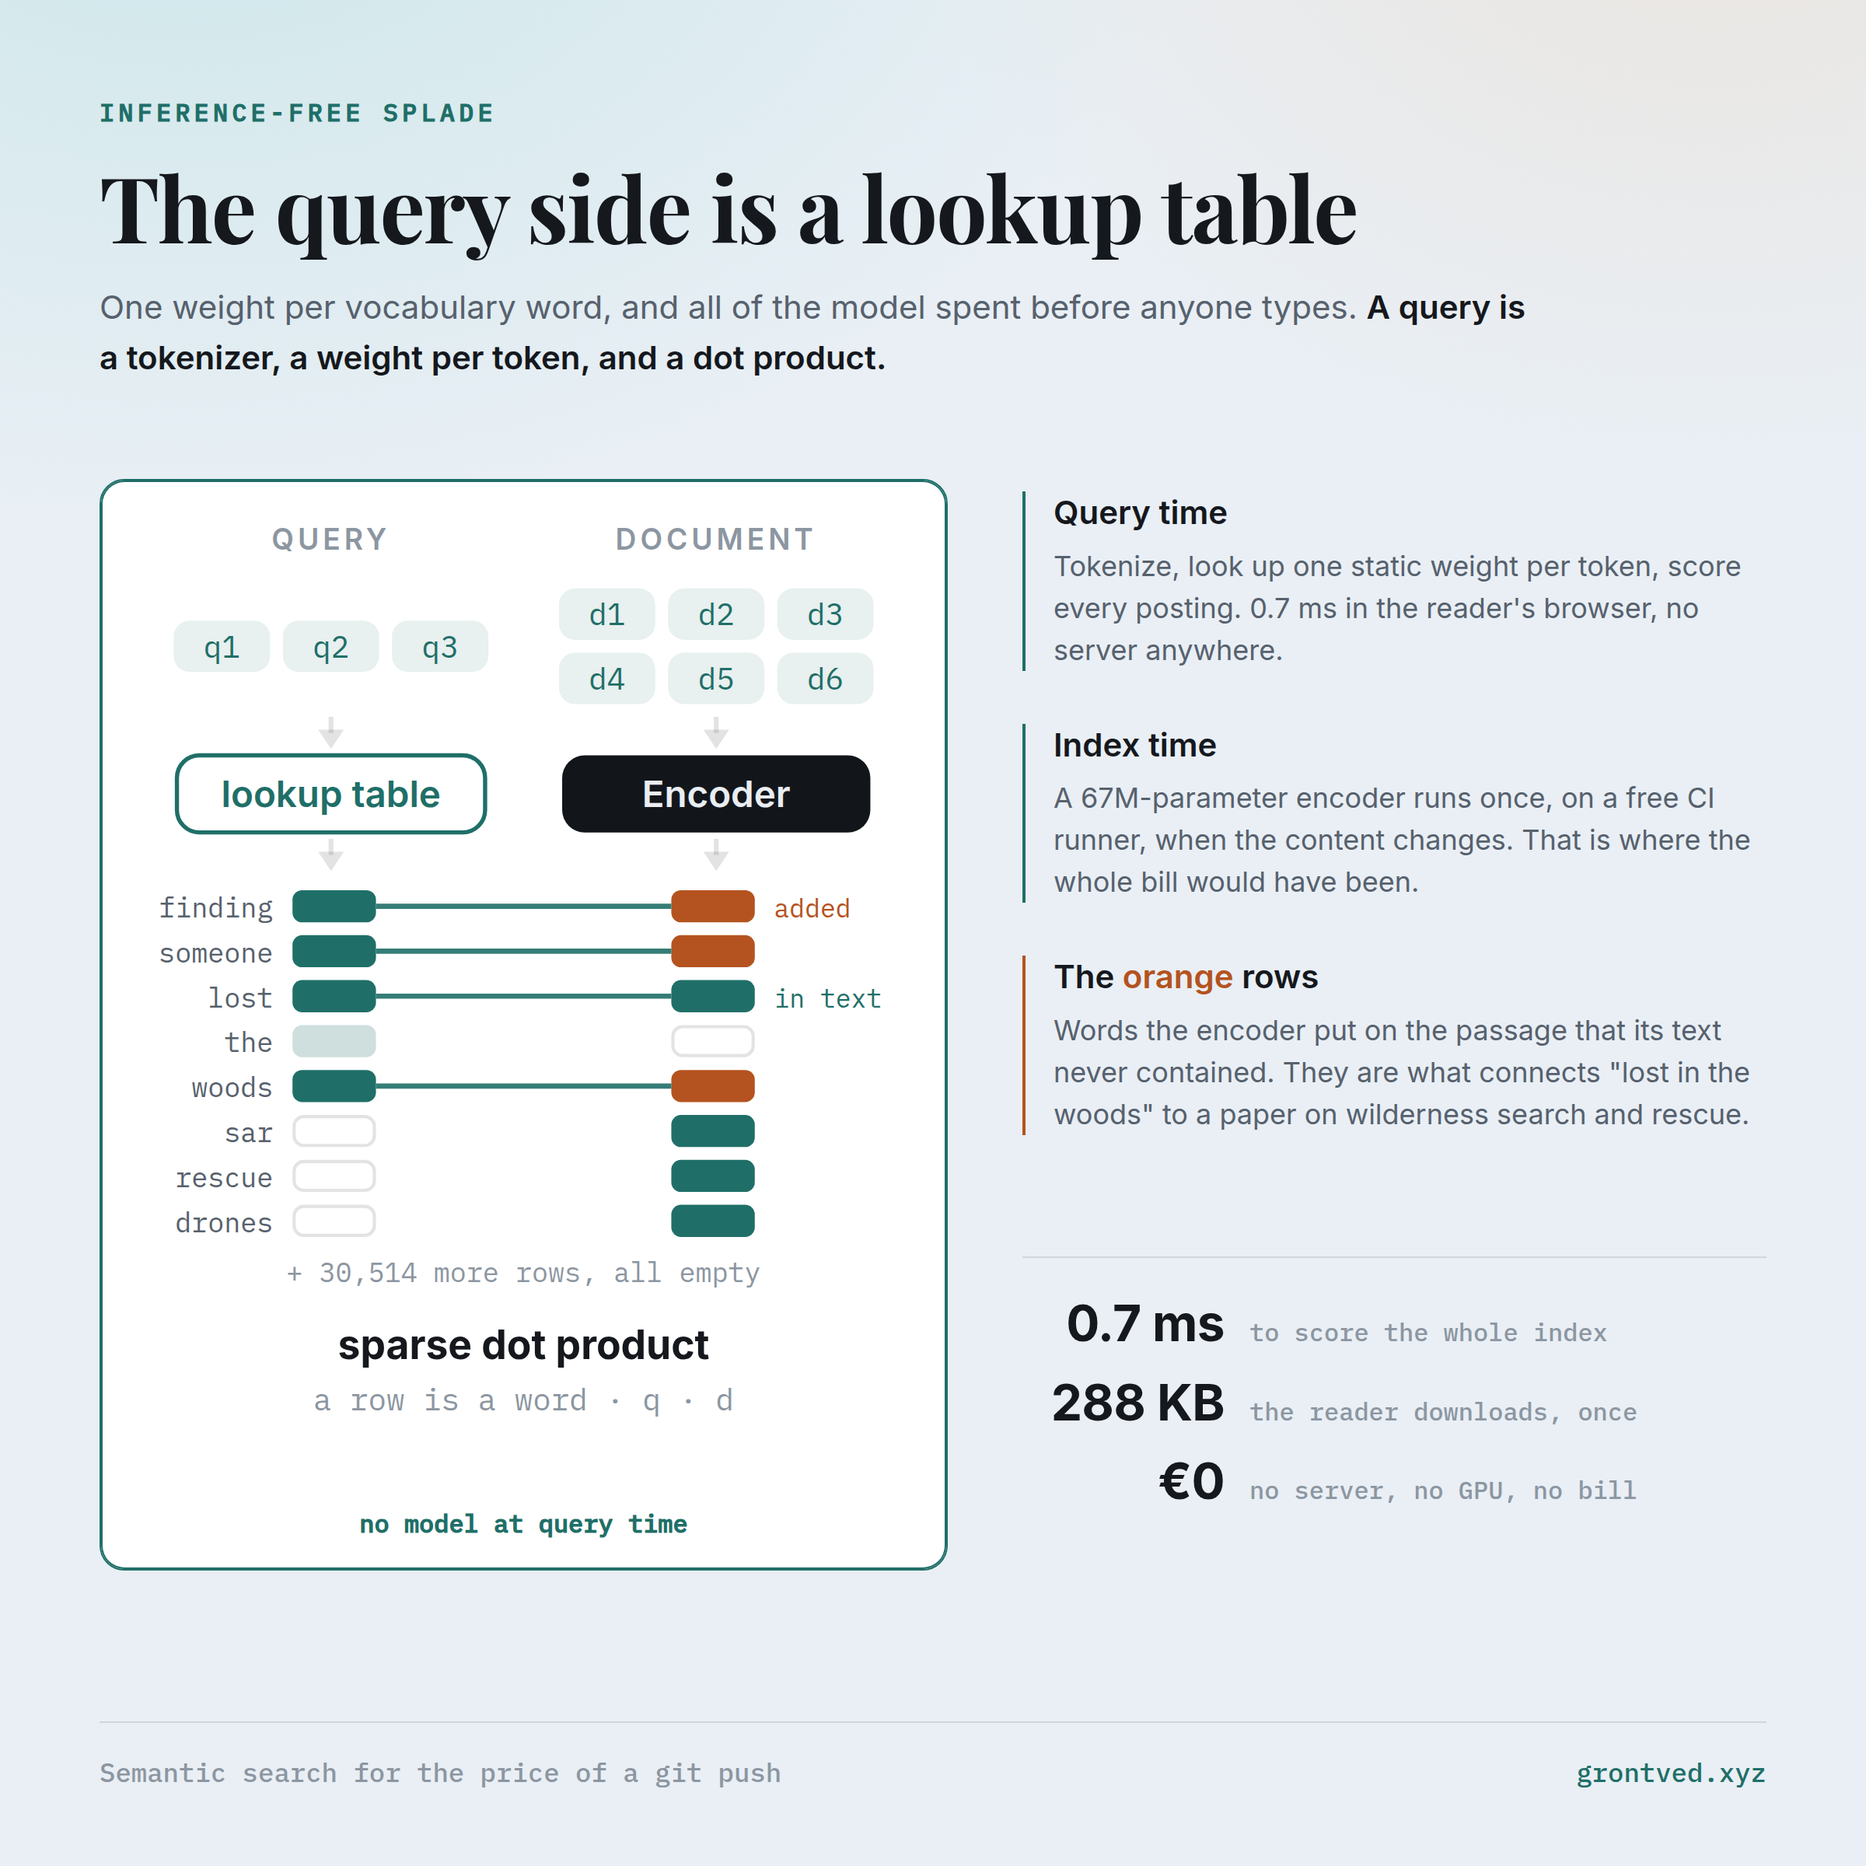
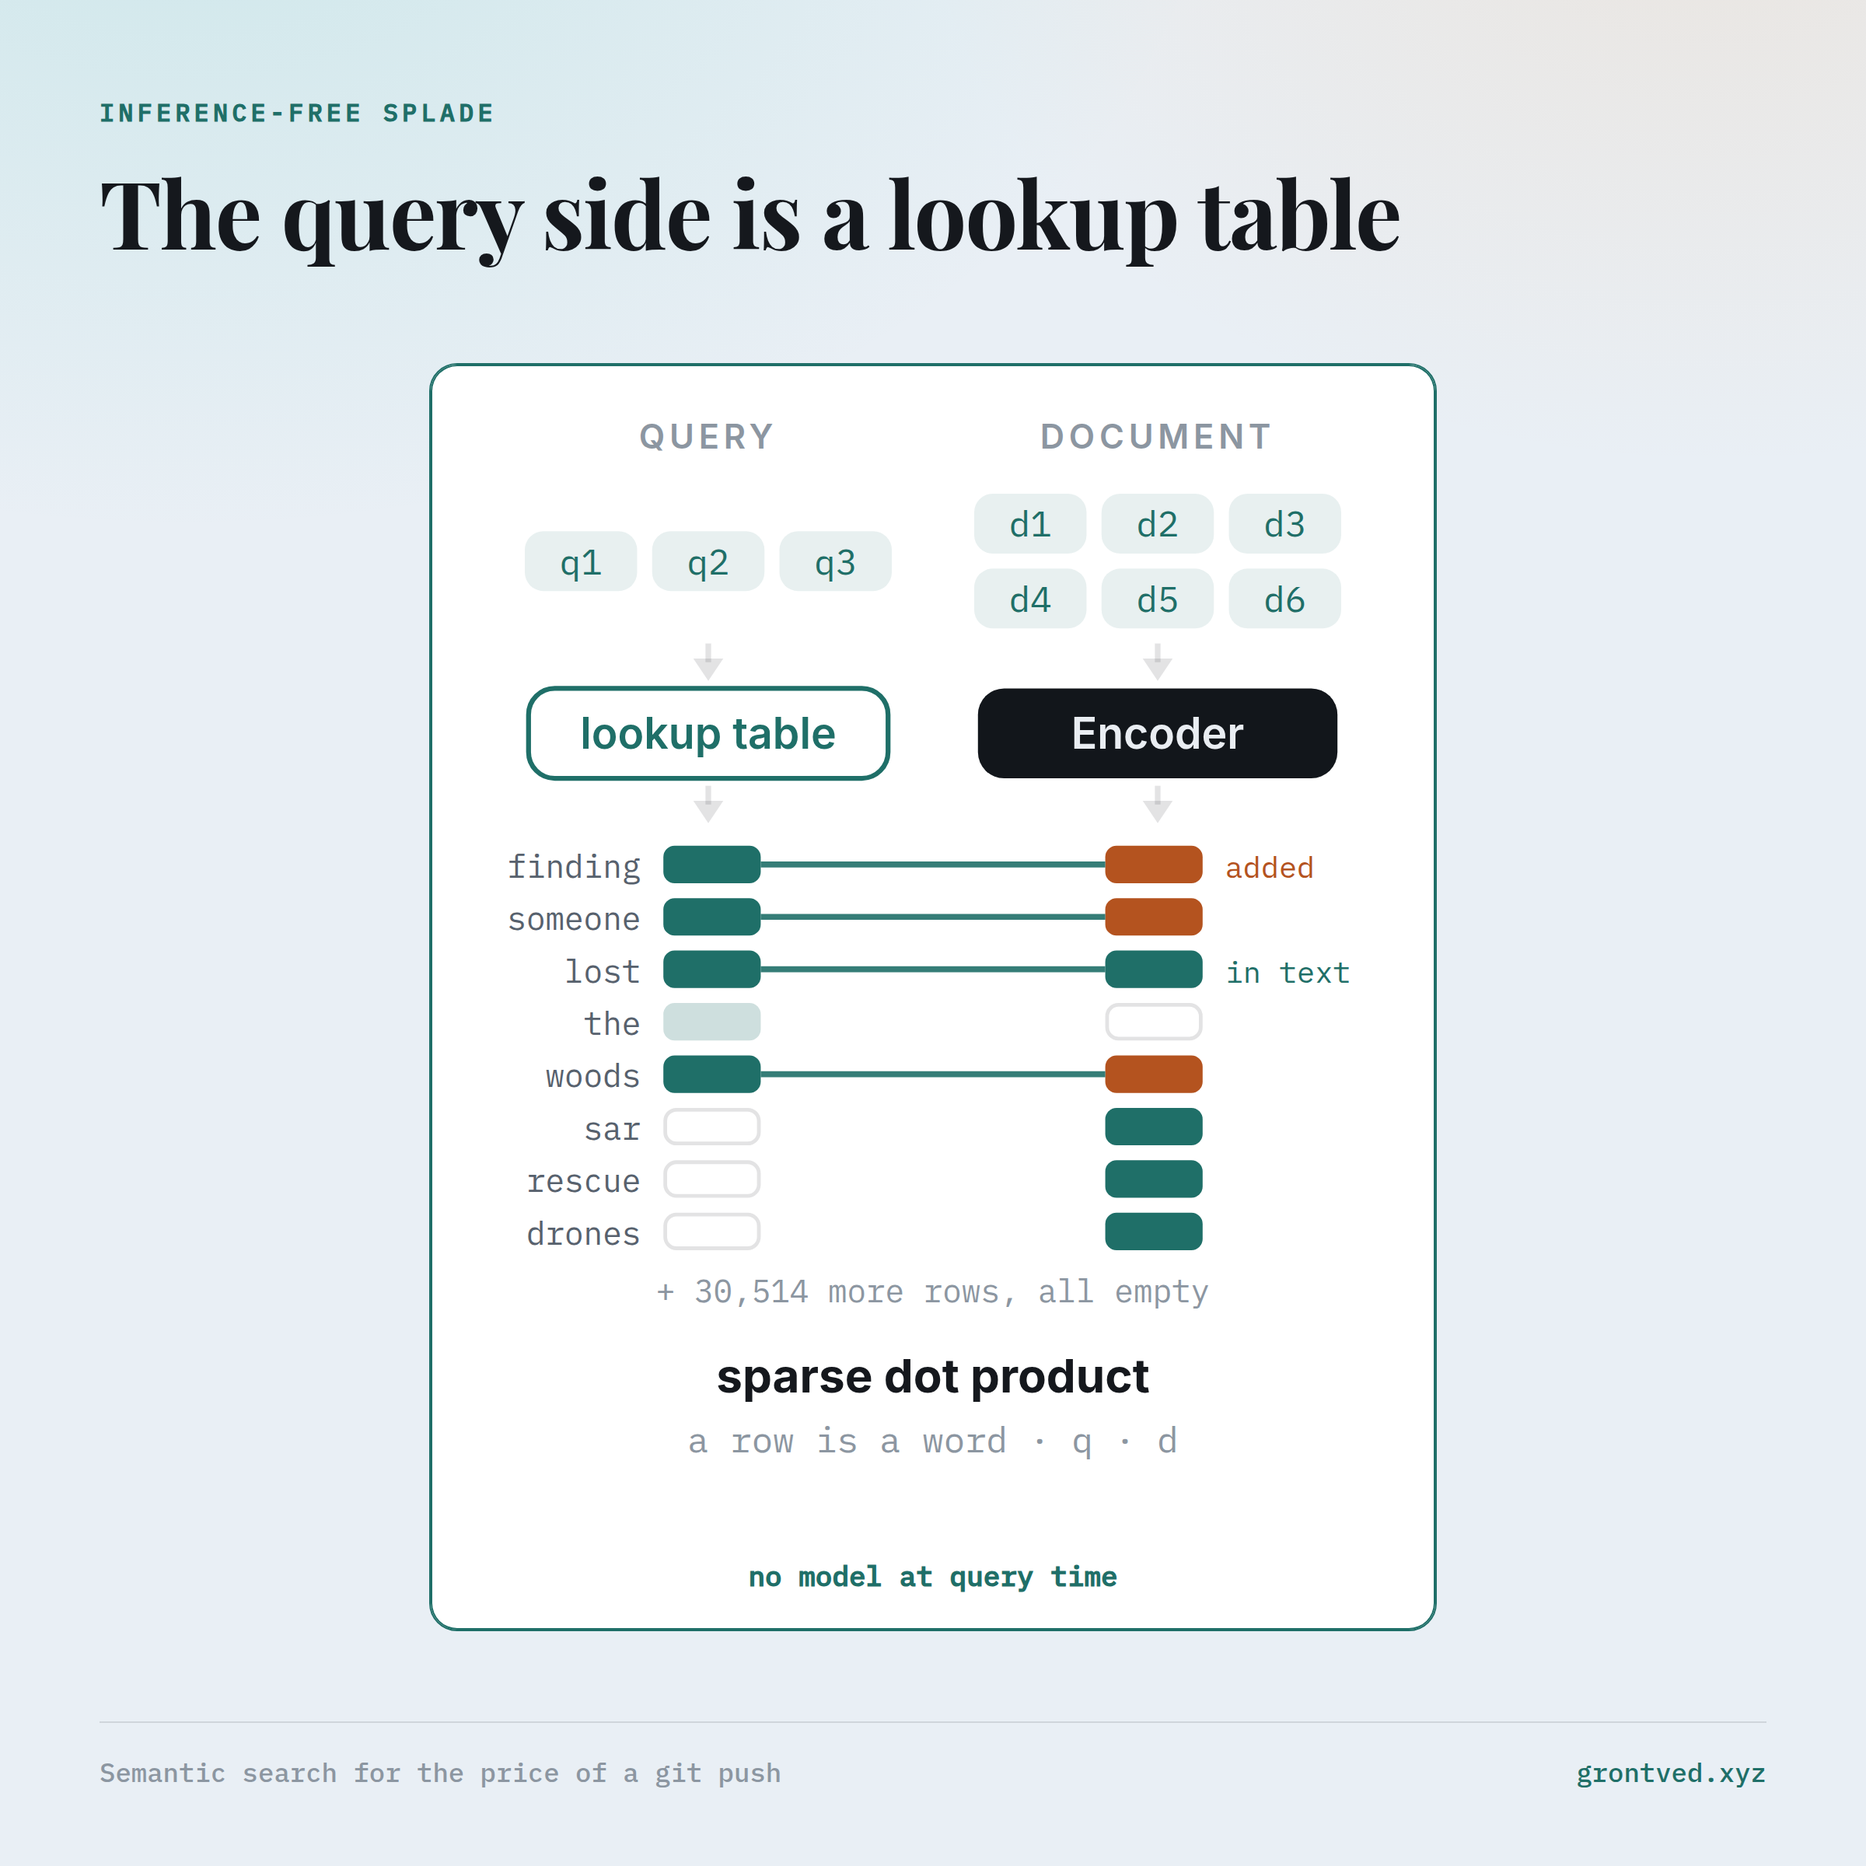
Strip the card back to the drawing
The annotations and the row of costs explained the mechanism well enough that
there was no reason left to open the post. What is left is an eyebrow, a
headline, the diagram and the site name, and the card's only job is to make
someone want to read the rest.

diff --git a/.claude/skills/linkedin-post/cards/2026-09-11-inference-free-splade.html b/.claude/skills/linkedin-post/cards/2026-09-11-inference-free-splade.html
@@ -14,59 +14,28 @@
           var(--canvas)}
   .shot .eyebrow{font:600 16px/1 var(--mono);letter-spacing:.16em;text-transform:uppercase;
                  color:var(--accent);margin:0;flex:none}
-  .shot h1{font:700 58px/1.12 var(--serif);color:var(--ink);margin:20px 0 0;letter-spacing:-.015em;
+  .shot h1{font:700 60px/1.12 var(--serif);color:var(--ink);margin:22px 0 0;letter-spacing:-.015em;
            max-width:27ch;flex:none}
-  .shot .sub{font:400 21px/1.55 var(--sans);color:var(--muted);margin:16px 0 0;max-width:70ch;flex:none}
-  .shot .sub b{color:var(--ink);font-weight:600}
-
-  .shot .body{display:grid;grid-template-columns:1.14fr 1fr;gap:48px;align-items:start;
-              margin-top:62px;flex:none}
-  .shot .panel{background:var(--card);border:1px solid var(--accent);border-radius:16px;
-               box-shadow:inset 0 0 0 1px var(--accent);padding:24px 24px 18px}
+  .shot .figwrap{flex:1;display:flex;align-items:center;justify-content:center;min-height:0;
+                 margin:46px 0 0}
+  .shot .panel{background:var(--card);border:1px solid var(--accent);border-radius:18px;
+               box-shadow:inset 0 0 0 1px var(--accent);padding:30px 34px 22px;
+               width:648px}
   .shot .panel svg{width:100%;height:auto;display:block}
-  .shot .panel .badge{margin:16px 0 0;font:600 16px/1.4 var(--mono);color:var(--accent);text-align:center}
-
-  .shot .notes{display:flex;flex-direction:column;gap:34px;padding-top:8px}
-  .shot .note{border-left:2px solid var(--accent);padding-left:18px}
-  .shot .note b{display:block;font:600 21px/1.3 var(--sans);color:var(--ink)}
-  .shot .note span{display:block;font:400 18px/1.5 var(--sans);color:var(--muted);margin-top:7px}
-  .shot .note.warm{border-left-color:var(--accent-2)}
-  .shot .note em{font-style:normal;color:var(--accent-2);font-weight:600}
-
-  .shot .nums{display:flex;flex-direction:column;gap:18px;margin-top:44px;
-              border-top:1px solid var(--hair);padding-top:26px}
-  .shot .num{display:flex;align-items:baseline;gap:16px}
-  .shot .num b{font:700 32px/1 var(--sans);color:var(--ink);letter-spacing:-.01em;
-               min-width:130px;text-align:right}
-  .shot .num span{font:500 16px/1.4 var(--mono);color:var(--faint)}
+  .shot .panel .badge{margin:14px 0 0;font:600 18px/1.4 var(--mono);color:var(--accent);
+                      text-align:center}
   .shot .foot{display:flex;justify-content:space-between;align-items:baseline;gap:24px;flex:none;
-        border-top:1px solid var(--hair);padding-top:20px;margin-top:auto;
+        border-top:1px solid var(--hair);padding-top:20px;margin-top:40px;
         font:500 17px/1.4 var(--mono);color:var(--faint)}
   .shot .foot .url{color:var(--accent)}
 </style>
 <div class="shot">
 <p class="eyebrow">Inference-free SPLADE</p>
 <h1>The query side is a lookup table</h1>
-<p class="sub">One weight per vocabulary word, and all of the model spent before anyone types.
-<b>A query is a tokenizer, a weight per token, and a dot product.</b></p>
-<div class="body">
+<div class="figwrap">
   <div class="panel">
     <svg viewBox="0 0 240 300" role="img" aria-label="Inference-free SPLADE. The document goes through an encoder and comes out as weights on vocabulary words, some of which are not in the text. The query side is a tokenizer and a lookup table, no model. The score is a dot product over the words both sides lit up."><g font-family="var(--sans)"><text x="60" y="10" text-anchor="middle" font-size="9" font-weight="600" letter-spacing="1.2" fill="var(--faint)">QUERY</text><text x="180" y="10" text-anchor="middle" font-size="9" font-weight="600" letter-spacing="1.2" fill="var(--faint)">DOCUMENT</text><rect x="11" y="32" width="30" height="16" rx="5" fill="var(--accent-faint)"/><text x="26.0" y="43.5" text-anchor="middle" font-family="IBM Plex Mono,monospace" font-size="9.5" fill="var(--accent)">q1</text><rect x="45" y="32" width="30" height="16" rx="5" fill="var(--accent-faint)"/><text x="60.0" y="43.5" text-anchor="middle" font-family="IBM Plex Mono,monospace" font-size="9.5" fill="var(--accent)">q2</text><rect x="79" y="32" width="30" height="16" rx="5" fill="var(--accent-faint)"/><text x="94.0" y="43.5" text-anchor="middle" font-family="IBM Plex Mono,monospace" font-size="9.5" fill="var(--accent)">q3</text><rect x="131" y="22" width="30" height="16" rx="5" fill="var(--accent-faint)"/><text x="146.0" y="33.5" text-anchor="middle" font-family="IBM Plex Mono,monospace" font-size="9.5" fill="var(--accent)">d1</text><rect x="165" y="22" width="30" height="16" rx="5" fill="var(--accent-faint)"/><text x="180.0" y="33.5" text-anchor="middle" font-family="IBM Plex Mono,monospace" font-size="9.5" fill="var(--accent)">d2</text><rect x="199" y="22" width="30" height="16" rx="5" fill="var(--accent-faint)"/><text x="214.0" y="33.5" text-anchor="middle" font-family="IBM Plex Mono,monospace" font-size="9.5" fill="var(--accent)">d3</text><rect x="131" y="42" width="30" height="16" rx="5" fill="var(--accent-faint)"/><text x="146.0" y="53.5" text-anchor="middle" font-family="IBM Plex Mono,monospace" font-size="9.5" fill="var(--accent)">d4</text><rect x="165" y="42" width="30" height="16" rx="5" fill="var(--accent-faint)"/><text x="180.0" y="53.5" text-anchor="middle" font-family="IBM Plex Mono,monospace" font-size="9.5" fill="var(--accent)">d5</text><rect x="199" y="42" width="30" height="16" rx="5" fill="var(--accent-faint)"/><text x="214.0" y="53.5" text-anchor="middle" font-family="IBM Plex Mono,monospace" font-size="9.5" fill="var(--accent)">d6</text><path d="M60 62V67" stroke="var(--hair)" stroke-width="1.5"/><path d="M60 72l-4 -6h8z" fill="var(--hair)"/><path d="M180 62V67" stroke="var(--hair)" stroke-width="1.5"/><path d="M180 72l-4 -6h8z" fill="var(--hair)"/><rect x="12" y="74" width="96" height="24" rx="7" fill="var(--card)" stroke="var(--accent)" stroke-width="1.3"/><text x="60.0" y="90.0" text-anchor="middle" font-size="11.5" font-weight="600" fill="var(--accent)">lookup table</text><rect x="132" y="74" width="96" height="24" rx="7" fill="var(--dark)"/><text x="180.0" y="90.0" text-anchor="middle" font-size="11.5" font-weight="600" fill="#e9edf2">Encoder</text><path d="M60 100V105" stroke="var(--hair)" stroke-width="1.5"/><path d="M60 110l-4 -6h8z" fill="var(--hair)"/><path d="M180 100V105" stroke="var(--hair)" stroke-width="1.5"/><path d="M180 110l-4 -6h8z" fill="var(--hair)"/><text x="42" y="124.5" text-anchor="end" font-family="IBM Plex Mono,monospace" font-size="8.5" fill="var(--muted)">finding</text><rect x="48" y="116" width="26" height="10" rx="3" fill="var(--accent)"/><rect x="166" y="116" width="26" height="10" rx="3" fill="var(--accent-2)"/><path d="M74 121H166" stroke="var(--accent)" stroke-width="1.6" stroke-opacity=".9"/><text x="42" y="138.5" text-anchor="end" font-family="IBM Plex Mono,monospace" font-size="8.5" fill="var(--muted)">someone</text><rect x="48" y="130" width="26" height="10" rx="3" fill="var(--accent)"/><rect x="166" y="130" width="26" height="10" rx="3" fill="var(--accent-2)"/><path d="M74 135H166" stroke="var(--accent)" stroke-width="1.6" stroke-opacity=".9"/><text x="42" y="152.5" text-anchor="end" font-family="IBM Plex Mono,monospace" font-size="8.5" fill="var(--muted)">lost</text><rect x="48" y="144" width="26" height="10" rx="3" fill="var(--accent)"/><rect x="166" y="144" width="26" height="10" rx="3" fill="var(--accent)"/><path d="M74 149H166" stroke="var(--accent)" stroke-width="1.6" stroke-opacity=".9"/><text x="42" y="166.5" text-anchor="end" font-family="IBM Plex Mono,monospace" font-size="8.5" fill="var(--muted)">the</text><rect x="48" y="158" width="26" height="10" rx="3" fill="var(--accent)" opacity=".22"/><rect x="166.5" y="158.5" width="25" height="9" rx="3" fill="none" stroke="var(--hair)"/><text x="42" y="180.5" text-anchor="end" font-family="IBM Plex Mono,monospace" font-size="8.5" fill="var(--muted)">woods</text><rect x="48" y="172" width="26" height="10" rx="3" fill="var(--accent)"/><rect x="166" y="172" width="26" height="10" rx="3" fill="var(--accent-2)"/><path d="M74 177H166" stroke="var(--accent)" stroke-width="1.6" stroke-opacity=".9"/><text x="42" y="194.5" text-anchor="end" font-family="IBM Plex Mono,monospace" font-size="8.5" fill="var(--muted)">sar</text><rect x="48.5" y="186.5" width="25" height="9" rx="3" fill="none" stroke="var(--hair)"/><rect x="166" y="186" width="26" height="10" rx="3" fill="var(--accent)"/><text x="42" y="208.5" text-anchor="end" font-family="IBM Plex Mono,monospace" font-size="8.5" fill="var(--muted)">rescue</text><rect x="48.5" y="200.5" width="25" height="9" rx="3" fill="none" stroke="var(--hair)"/><rect x="166" y="200" width="26" height="10" rx="3" fill="var(--accent)"/><text x="42" y="222.5" text-anchor="end" font-family="IBM Plex Mono,monospace" font-size="8.5" fill="var(--muted)">drones</text><rect x="48.5" y="214.5" width="25" height="9" rx="3" fill="none" stroke="var(--hair)"/><rect x="166" y="214" width="26" height="10" rx="3" fill="var(--accent)"/><text x="120" y="238" text-anchor="middle" font-family="IBM Plex Mono,monospace" font-size="8.5" fill="var(--faint)">+ 30,514 more rows, all empty</text><text x="198" y="124.5" font-family="IBM Plex Mono,monospace" font-size="8" fill="var(--accent-2)">added</text><text x="198" y="152.5" font-family="IBM Plex Mono,monospace" font-size="8" fill="var(--accent)">in text</text><text x="120" y="262" text-anchor="middle" font-size="12.5" font-weight="700" fill="var(--ink)">sparse dot product</text><text x="120" y="278" text-anchor="middle" font-family="IBM Plex Mono,monospace" font-size="9.5" fill="var(--faint)">a row is a word · q · d</text></g></svg>
     <p class="badge">no model at query time</p>
-  </div>
-  <div class="notes">
-    <div class="note"><b>Query time</b><span>Tokenize, look up one static weight per token, score
-      every posting. 0.7 ms in the reader's browser, no server anywhere.</span></div>
-    <div class="note"><b>Index time</b><span>A 67M-parameter encoder runs once, on a free CI
-      runner, when the content changes. That is where the whole bill would have been.</span></div>
-    <div class="note warm"><b>The <em>orange</em> rows</b><span>Words the encoder put on the
-      passage that its text never contained. They are what connects "lost in the woods" to a
-      paper on wilderness search and rescue.</span></div>
-    <div class="nums">
-      <div class="num"><b>0.7 ms</b><span>to score the whole index</span></div>
-      <div class="num"><b>288 KB</b><span>the reader downloads, once</span></div>
-      <div class="num"><b>&euro;0</b><span>no server, no GPU, no bill</span></div>
-    </div>
   </div>
 </div>
 <div class="foot"><span>Semantic search for the price of a git push</span><span class="url">grontved.xyz</span></div>

diff --git a/.claude/skills/linkedin-post/posts/2026-09-11-inference-free-splade.md b/.claude/skills/linkedin-post/posts/2026-09-11-inference-free-splade.md
@@ -29,9 +29,9 @@ embeddings ask you to trust them. A sparse one shows its working.") and one open
 failure ("My site's search cannot find 'cardiac arrest'"). The architectural claim, the one
 that sounds impossible, won over the cleverer angles.
 
-**Image.** The SPLADE panel of Figure 1, alone and large, with the query side, the index
-side and the expansion terms called out beside it and the three costs under those. The
-first cut showed all three architectures side by side and read as a comparison of a field;
-dropping the dense and late-interaction panels made it a picture of the one thing the post
-is about. The SVG is lifted from the post rather than redrawn, so the picture in the feed
-is the picture the reader lands on.
+**Image.** The SPLADE panel of Figure 1, alone and large, under a headline and over the site
+name. It went through two cuts. The first showed all three architectures side by side and read
+as a survey of retrieval rather than as the post's argument. The second kept annotations and a
+row of costs beside the diagram, which explained the mechanism well enough that there was no
+reason left to open the post. What survives is the drawing and six words. The SVG is lifted
+from the post rather than redrawn, so the picture in the feed is the picture the reader lands on.

diff --git a/.claude/skills/linkedin-post/SKILL.md b/.claude/skills/linkedin-post/SKILL.md
@@ -95,10 +95,13 @@ markup of the `<figure>` into a card under `cards/`, pull in the site's own styl
 `/site/site.css` and `/blog/blog.css`, and let the site's tokens do the styling. The picture
 in the feed is then the same picture the reader lands on.
 
-The card is a headline, one line of claim, the figure, and three numbers, over the site's
-canvas wash. Show one idea. A figure that compares several things reads as a survey of a
-field, so cut it down to the part the post argues for and let the notes beside it carry what
-the other panels were doing. Render it with:
+The card is an eyebrow, a headline, the figure, and the site's name. Nothing else: no
+explanatory paragraph, no annotations down the side, no row of statistics. The card's job is
+to make someone want to read the post, and a card that explains the mechanism has already
+given it away. Whatever labels the figure carries in the post are enough.
+
+Show one idea. A figure that compares several things reads as a survey of a field, so cut it
+down to the part the post argues for. Render it with:
 
 ```
 scripts/render_card.sh cards/<slug>.html posts/<slug>.png
